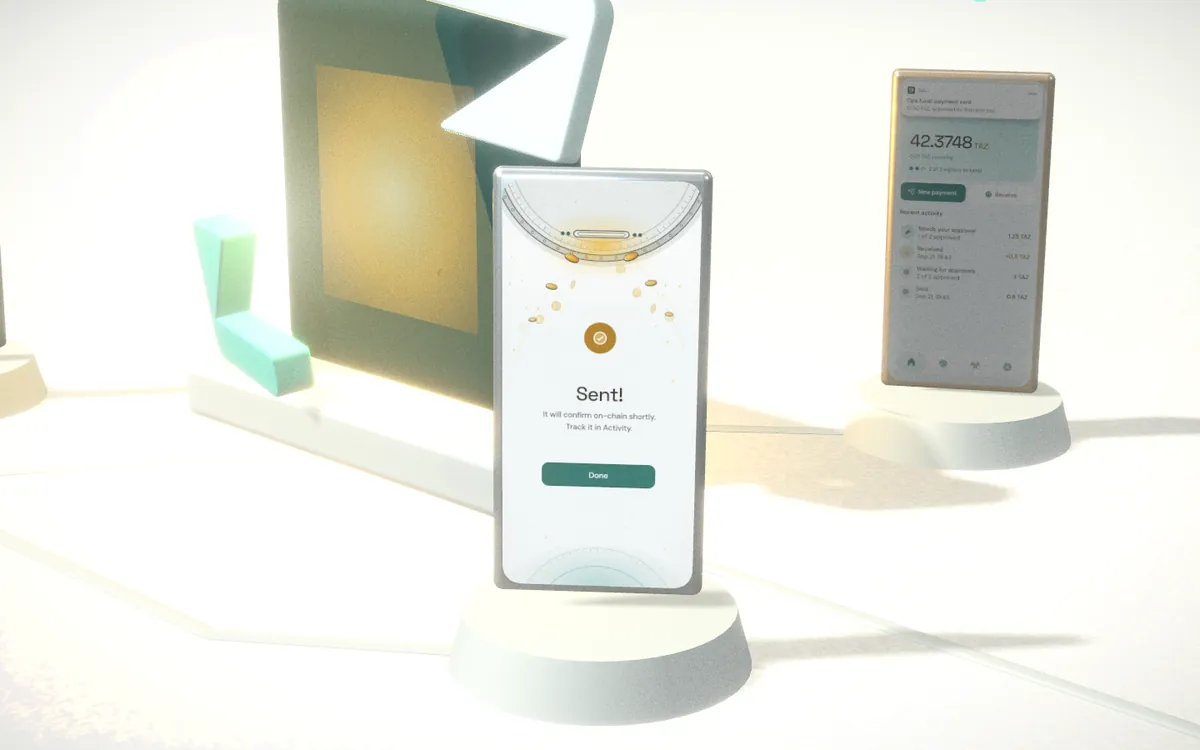
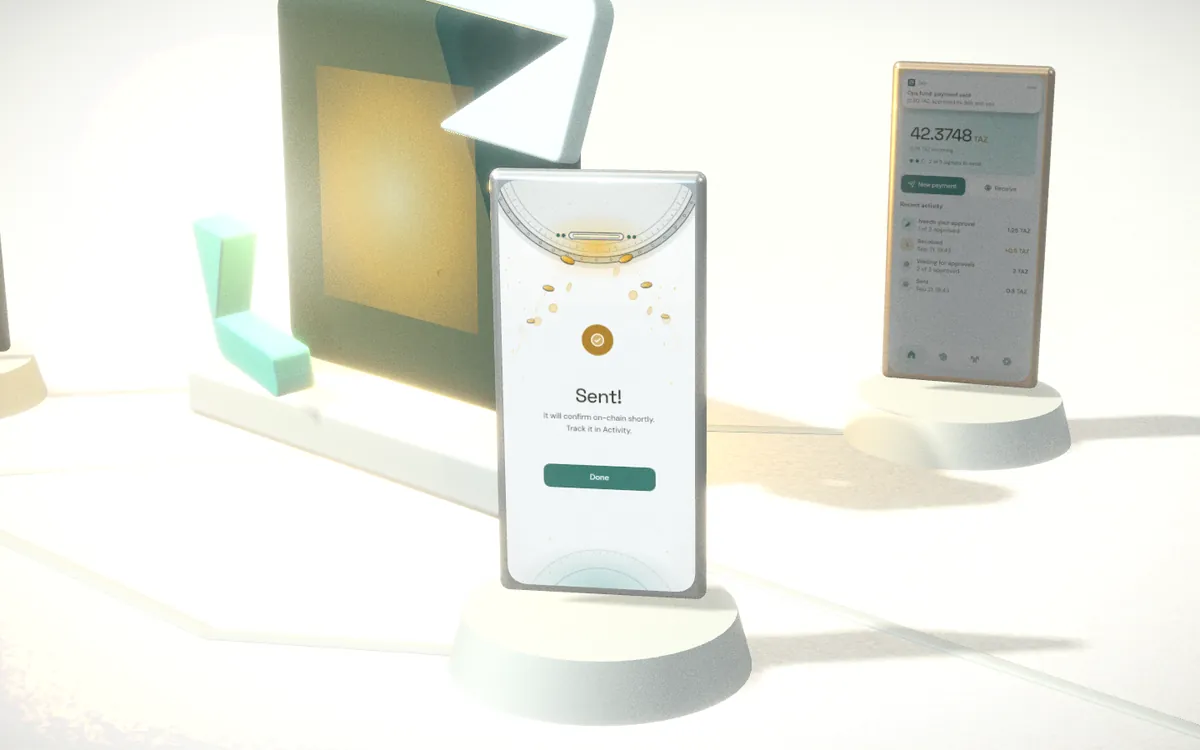
Site: the minor items, README and skill
- "Single-key" no longer splits on phones (a nowrap span: the font
  subset has no non-breaking hyphen).
- The comparison has a Compare tag like every other section.
- Phones: the 3D story's wide shots are pulled back x1.42 instead of
  x1.55, so the diorama fills the width without cropping a phone;
  stills re-rendered for the new framing.
- README: website link, versioned formats, phone features, infra/relay,
  infra/site, skills, how to build and deploy the site.
- landing-page skill: verify the story on /showcase, the phone framing
  check, the small details the user notices, and improving in rounds
  (minor issues get fixed, not listed).

diff --git a/infra/site/src/scripts/world.js b/infra/site/src/scripts/world.js
@@ -594,10 +594,12 @@ export async function start({ canvas, story, hero, features, cta, covers, screen
   let camPos = null;
   let camTarget = null;
   function buildCamera(portrait) {
-    // Portrait pulls the wide shots back, and the islands (12-14), which are wide.
+    // Portrait pulls the wide shots back just enough for the diorama to fit the width
+    // (1.55 left it at half the screen on phones, 1.3 cut the edge phones), and the islands (12-14) further, as
+    // their cards sit below them.
     const pos = CAM.map(([p, t], i) => {
       const d = p.distanceTo(t);
-      return portrait && (d > 14 || (i >= 12 && i <= 14)) ? t.clone().add(p.clone().sub(t).multiplyScalar(i >= 12 && i <= 14 ? 1.7 : 1.55)) : p;
+      return portrait && (d > 14 || (i >= 12 && i <= 14)) ? t.clone().add(p.clone().sub(t).multiplyScalar(i >= 12 && i <= 14 ? 1.7 : 1.42)) : p;
     });
     camPos = new THREE.CatmullRomCurve3(pos, false, 'centripetal');
     camTarget = new THREE.CatmullRomCurve3(CAM.map((c) => c[1]), false, 'centripetal');

diff --git a/infra/site/src/styles/site.css b/infra/site/src/styles/site.css
@@ -1374,3 +1374,4 @@ html.world-on .foot-slim { background: var(--window); max-width: none; padding-l
   .showcase .nav-logo, .showcase .nav-side, html.world-on .showcase .world { animation: none; }
   .scroll-cue i::after { animation: none; }
 }
+.nowrap { white-space: nowrap; }

diff --git a/README.md b/README.md
@@ -9,9 +9,12 @@ threshold signatures**: members' phones jointly produce one ordinary spend signa
 chain, a Zafe vault looks exactly like a single-user wallet: no owners, no threshold,
 nothing that says "multisig".
 
-> **Status: pre-release, testnet/regtest only.** Do not use with real funds. The mainnet
-> gate is an upstream confirmation about the key derivation (see
-> [`upstream-asks.md`](upstream-asks.md), Q1). Wire formats are not versioned yet.
+> **Status: pre-release, testnet/regtest only, not audited.** Do not use with real funds.
+> The mainnet gate is an upstream confirmation about the key derivation (see
+> [`upstream-asks.md`](upstream-asks.md), Q1).
+
+Website: <https://zafe-pink.vercel.app> (the 3D walkthrough is at
+[`/showcase`](https://zafe-pink.vercel.app/showcase)).
 
 ## How it works
 
@@ -29,6 +32,11 @@ nothing that says "multisig".
   amounts or addresses, and can't spend.
 - **Backups**: each member can export an encrypted backup of their key share
   (Argon2id + XChaCha20-Poly1305). Signing nonces are never included.
+- **On the phone**: optional Tor for every connection (embedded arti, fail-closed), an
+  encrypted wallet database (SQLCipher), an unlock to approve or send, several vaults
+  per phone (a fresh identity each), invite links, and viewing keys for auditors.
+- **Versioned formats**: every envelope, log entry, event, API body and on-device file
+  carries a format version, and older apps are told to update instead of misreading.
 
 The full design is in [`spec.md`](spec.md).
 
@@ -43,8 +51,12 @@ crates/zafe-cli     `zafe`, a headless member used for tests and scripting
 app/                Flutter app (Android today; iOS not yet built) with a Rust bridge
                     (flutter_rust_bridge) in app/rust
 infra/regtest       Zakura + lightwalletd regtest with NU6.3 active (Docker)
-scripts/            end-to-end scripts, benchmarks, illustration generator
-docs/               tracker (what's next), design references, illustration guide
+infra/relay         relay Dockerfile and deploy recipes (Fly.io or a VPS); not deployed yet
+infra/site          the website (Astro, static, strict CSP): home, /showcase, /join
+scripts/            end-to-end scripts, benchmarks, brand and illustration generators
+docs/               tracker (what's next), releasing, brand, website and SEO decisions,
+                    design references, illustration guide
+.claude/skills/     project skills for agents: brand palette, logo design, landing page
 ```
 
 ## Build and test
@@ -77,6 +89,17 @@ flutter build apk --debug --target-platform android-arm64
 or emulator can go through vault creation, payments and approvals. Network endpoints are
 build-time `--dart-define`s (`ZAFE_NETWORK`, relay and lightwalletd URLs; defaults point
 at a local regtest).
+
+Website (Node 24, as in CI):
+
+```bash
+cd infra/site && npm ci && ./build.sh     # → dist/; fails on any inline script or style
+```
+
+Pushes to `main` deploy it to Vercel (`.github/workflows/site.yml`); see
+[`infra/site/README.md`](infra/site/README.md). Android releases:
+[`docs/releasing.md`](docs/releasing.md). Relay deployment:
+[`infra/relay/README.md`](infra/relay/README.md).
 
 Contributor notes, invariants and gotchas are in [`AGENTS.md`](AGENTS.md); open work is in
 [`docs/tracker.md`](docs/tracker.md).

diff --git a/.claude/skills/landing-page/SKILL.md b/.claude/skills/landing-page/SKILL.md
@@ -97,6 +97,10 @@ emissive/gold only, grain, vignette), GSAP ScrollTrigger, Lenis.
   the page.
 - **SEO**: canonical/OG/JSON-LD come from `Base.astro` props and `site` in
   `astro.config.mjs`; keep every heading level meaningful (crawlers see only the DOM).
+- **Details the user notices**: every home section carries the same small `.tag` label
+  above its heading (one missing one reads as a slip); compound words in narrow cells or
+  labels get `<span class="nowrap">` so phones don't split them (not U+2011: the font
+  subset lacks it, so it would render in a fallback font).
 
 ## 5. Verify every change by looking
 
@@ -104,12 +108,17 @@ emissive/gold only, grain, vignette), GSAP ScrollTrigger, Lenis.
 (cd infra/site && ./build.sh)                         # includes the inline-code guard
 python3 -m http.server 8768 --bind 127.0.0.1 --directory infra/site/dist   # background
 S=.claude/skills/landing-page
-bash $S/frames.sh "http://127.0.0.1:8768/?world=always&pointer=fine" .story 1440 900 12 "$OUT" story
+# The 3D story is on /showcase; the plain server needs the .html (Vercel serves clean paths).
+bash $S/frames.sh "http://127.0.0.1:8768/showcase.html?world=always&pointer=fine" .story 1440 900 12 "$OUT" story
 python3 $S/sheet.py "$OUT" story 3 0.36               # one contact sheet, then Read it
-bash $S/frames.sh "http://127.0.0.1:8768/?world=always" .story 390 844 12 "$OUT" story_m && python3 $S/sheet.py "$OUT" story_m 6 0.5
+bash $S/frames.sh "http://127.0.0.1:8768/showcase.html?world=always" .story 390 844 12 "$OUT" story_m && python3 $S/sheet.py "$OUT" story_m 6 0.5
 ```
 - Desktop 1440x900 **and** phone 390x844, every section you touched; open the sheet and
   the key single frames; fix, rebuild, recapture before reporting.
+- **On phones, check the wide 3D shots fill the width** without cropping a phone: the
+  portrait pull-back for wide framings is ×1.42 (`buildCamera` in world.js: ×1.55 left the
+  diorama at half the screen, ×1.3 cut the edge phones). Re-check after moving the camera
+  or the phones.
 - Headless Chrome renders WebGL in software (SwiftShader), so the page skips the world
   there: add `?world=always`. The world then runs at the lowest quality (softer) and
   ~1 fps, fine for screenshots, meaningless for frame rates; the bare URL checks the
@@ -121,6 +130,16 @@ bash $S/frames.sh "http://127.0.0.1:8768/?world=always" .story 390 844 12 "$OUT"
   Measure page weight and rAF rate with a small agent-browser script in a file.
 - The sandbox refuses complex inline shell and `eval` strings: put scripts in files and
   run them with `bash`.
+
+## Improving in rounds
+
+When asked to keep improving the site: each round, screenshot every section of both pages
+(desktop and phone), write a ranked, harsh critique against the user's taste (memory
+`website-style`: loves / rejected / cares about), fix the top issues, verify, ship to main,
+and log the round in `docs/site.md`. **Minor issues count**: the user asks for them anyway
+("fix the minor issues too"), so fix them in the round that finds them rather than
+listing them as left over. Stop when a critique finds nothing at all, or after the round
+limit you were given, and say what you'd do next.
 
 ## 6. Record and ship
 

diff --git a/docs/site.md b/docs/site.md
@@ -3,6 +3,16 @@
 The landing page (`infra/site/src/pages/index.astro`) follows this brief. Keep it current
 when the page changes.
 
+## Round 12d: the minor items too
+
+"Fix the minor issues too, also update the skill accordingly." Fixed the three 12c left:
+"Single-key" sits in a `.nowrap` span (the font subset has no U+2011, so a non-breaking
+hyphen would fall back to another font); the comparison got its `Compare` tag like every
+other section; on phones the wide 3D shots are pulled back ×1.42 instead of ×1.55
+(`buildCamera`), so the diorama fills the width (×1.3 cut the edge phones). The skill now
+says minor issues get fixed in the round that finds them, and the root README is current
+(versioned formats, phone features, website, layout, links).
+
 ## Round 12c (critique pass): nothing above minor, loop stopped
 
 Checked both pages again at 1440×900 and 390×844 (showcase with the world, its stills
